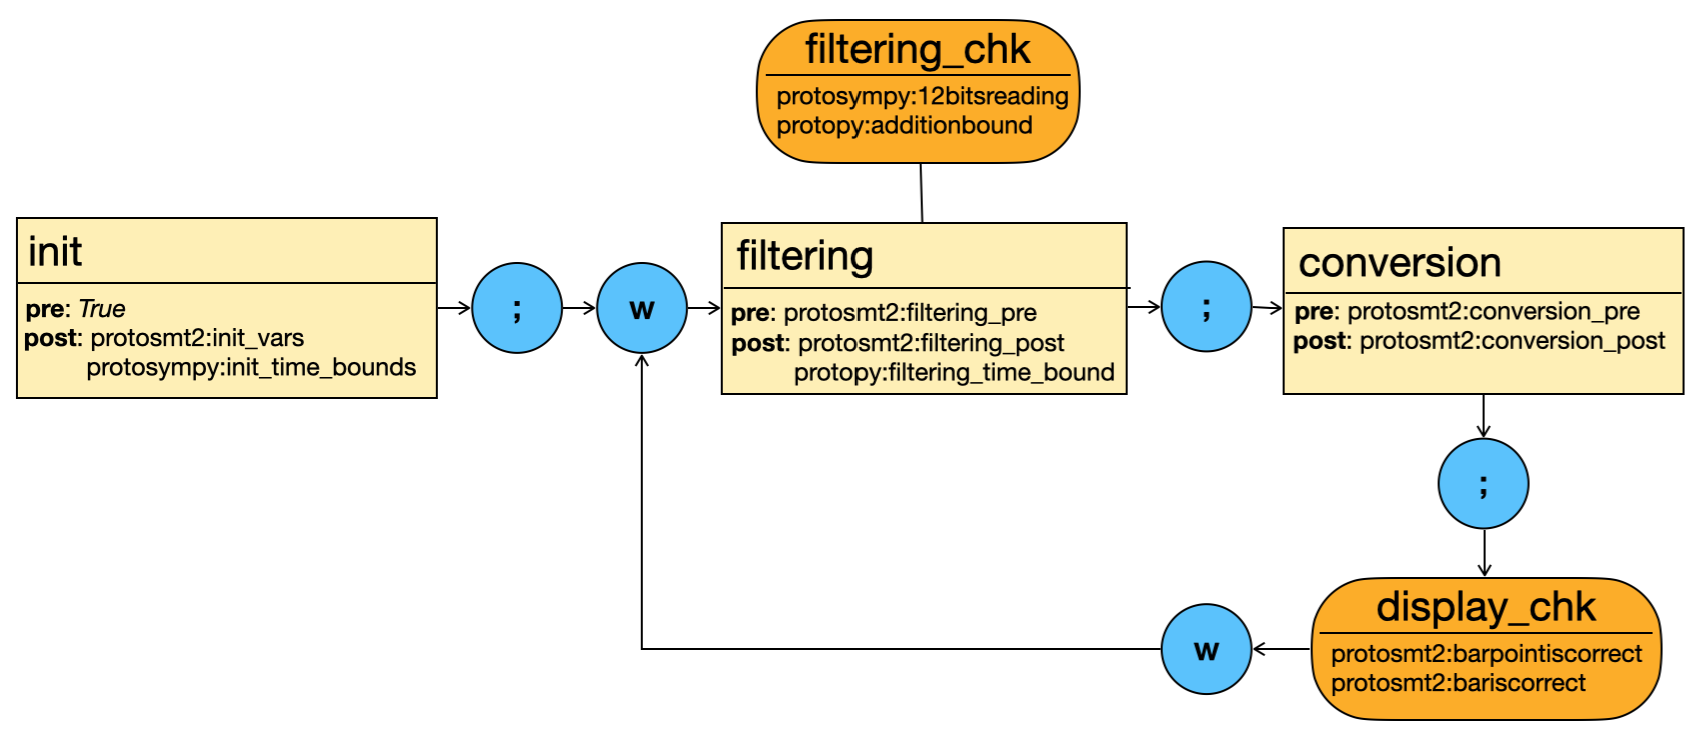
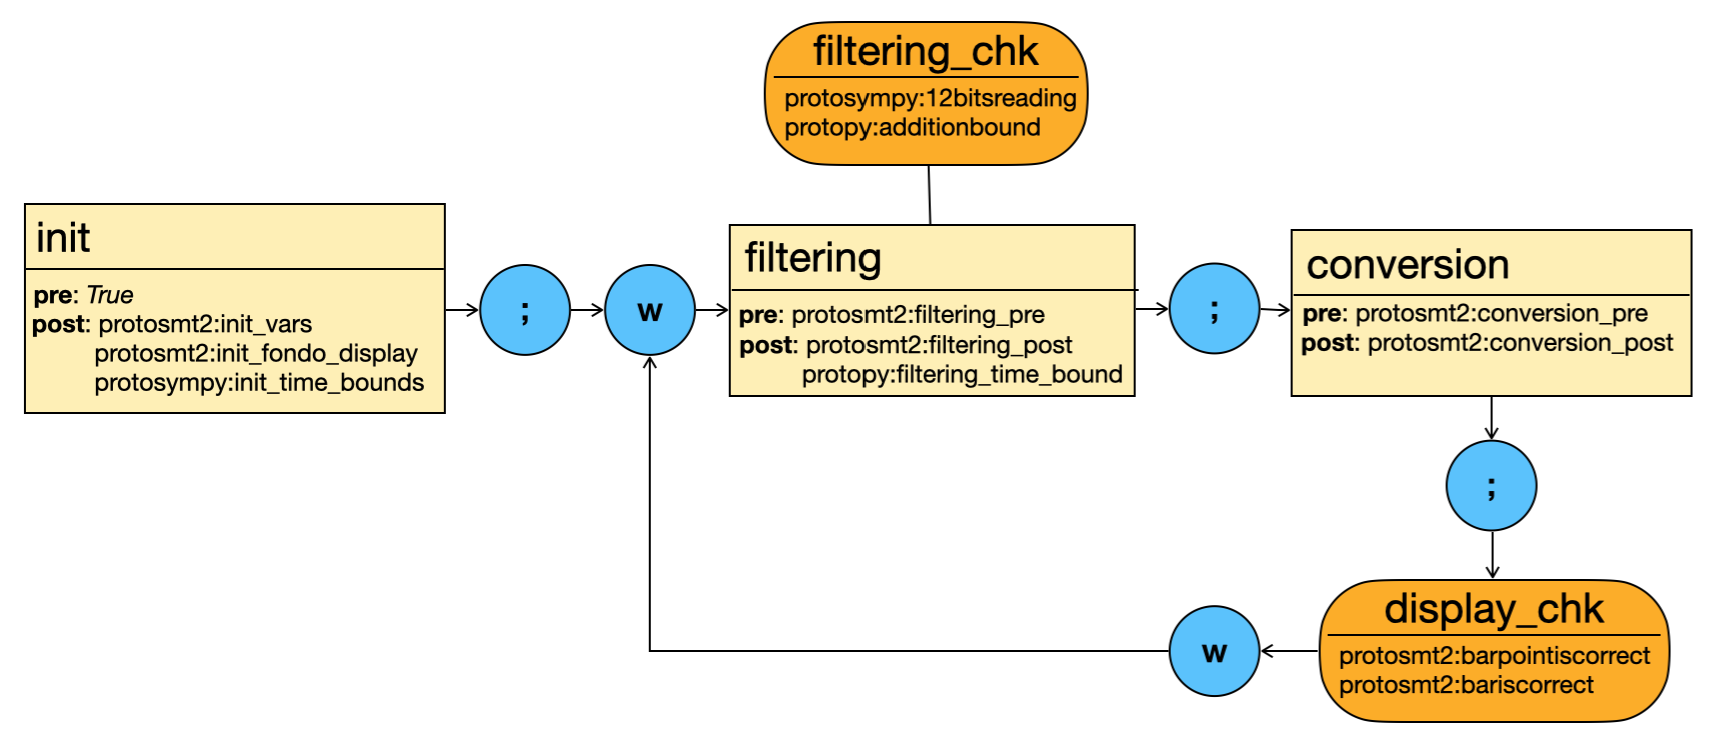
Partial commit of the README.md.

diff --git a/README.md b/README.md
@@ -29,14 +29,166 @@ In this section we formalise the intended behaviour of the software layer of the
   </figcaption>
 </figure>
 
-The intuition behind the SSP shown above is that after an initial task (*init*) that performs the initialization of the process, the artifact enters an infinite loop which performs a filtering task (*filtering*), which has an local checkpoint (*filtering_chk*), that computes a stable sample by taking the average of 16 individual samples, then the process goes through a conversion task (*conversion*) that produces the engineering value corresponding to that sample according to the interpretation of the analog signal being sampled, and, finally, there is a global checkpoint (*display_chk*) for checking the coherence of the data shown in the display with respect to the engineering value computed in the task *conversion*.
+The intuition behind the SSP shown above is that after an initial task (*init*) that performs the initialization of the process, the artifact enters an infinite loop which performs a filtering task (*filtering*), which has an local checkpoint (*filtering_chk*), that computes a stable sample by taking the average of 16 individual samples, then the process goes through a conversion task (*conversion*) that produces the engineering value corresponding to that sample according to the interpretation of the analog signal being sampled, and, finally, there is a global checkpoint (*display_chk*) for checking the coherence of the data shown in the LCD with respect to the engineering value computed in the task *conversion*.
 
+Below there is a list of the properties involved in the formal specification of [Figure 2](#ssp-software). We omit the information about the solver that will be used for checking each individual property but it can be seen as a label in fron of each of them in the structured sequential process of [Figure 2](#ssp-software). For a detailed presentation of the syntax the reader is pointed to Section [Specification language for describing the analysis framework](https://github.com/invap/rt-monitor/blob/main/README.md#specification-language "Specification language for describing the analysis framework").
 
-**ToDo: Complete description of the model by explaining all the properties involved.**
+- `init_vars`: asserts that the variable storing the previous sample is initialised with 0
+```
+(main_realvalue_old:State Int)
+(= main_realvalue_old 0)
+```
+- `init_fondo_display`: asserts that the invariant part of the image shown in the display has been correctly written. **Important note**: this is a dummy property because it is too cumbersome and does not add much to the purpose of this example; we will complete this in the future with a proper formula
+```
+None
+(= 1 1)
+```
+- `init_time_bound`: establishes a bound to the time required to perform the task *init*, between 10 and 1000 miliseconds
+```
+(init_clk:Clock Int)
+((10 <= init_clk) & (init_clk < 1000))
+```
+- `filtering_pre`: states the precondition of the task *filtering* asserting that the variable in which the process computes the addition of the 16 samples has been assigned 0
+```
+(main_addition:State Int)
+(= main_addition 0)
+```
+- `filtering_post`: states that the value reported as the result of computing the addition of 16 sampled datum and then deviding by 16 is indeed the average of those values
+```
+(main_addition:State Int),(main_realvalue:State Int),(main_value_0:State Int),(main_value_1:State Int),(main_value_2:State Int),(main_value_3:State Int),(main_value_4:State Int),(main_value_5:State Int),(main_value_6:State Int),(main_value_7:State Int),(main_value_8:State Int),(main_value_9:State Int),(main_value_10:State Int),(main_value_11:State Int),(main_value_12:State Int),(main_value_13:State Int),(main_value_14:State Int),(main_value_15:State Int)
+(and
+    (and
+        (and (<= 0 main_value_0) (< main_value_0 4096))
+        (and (<= 0 main_value_1) (< main_value_1 4096))
+        (and (<= 0 main_value_2) (< main_value_2 4096))
+        (and (<= 0 main_value_3) (< main_value_3 4096))
+        (and (<= 0 main_value_4) (< main_value_4 4096))
+        (and (<= 0 main_value_5) (< main_value_5 4096))
+        (and (<= 0 main_value_6) (< main_value_6 4096))
+        (and (<= 0 main_value_7) (< main_value_7 4096))
+        (and (<= 0 main_value_8) (< main_value_8 4096))
+        (and (<= 0 main_value_9) (< main_value_9 4096))
+        (and (<= 0 main_value_10) (< main_value_10 4096))
+        (and (<= 0 main_value_11) (< main_value_11 4096))
+        (and (<= 0 main_value_12) (< main_value_12 4096))
+        (and (<= 0 main_value_13) (< main_value_13 4096))
+        (and (<= 0 main_value_14) (< main_value_14 4096))
+        (and (<= 0 main_value_15) (< main_value_15 4096))
+    )
+    (= main_addition (+ main_value_0 main_value_1 main_value_2 main_value_3 main_value_4 main_value_5 main_value_6 main_value_7 main_value_8 main_value_9 main_value_10 main_value_11 main_value_12 main_value_13 main_value_14 main_value_15))
+    (= main_realvalue (div main_addition 16))
+)
+```
+- `filtering_time_bound`: establishes a bound to the time required to compute the the final sample as the average of 16 sampled datum from the ADC, between 100 and 500 miliseconds
+```
+(filtering_clk:Clock Int)
+((100 <= filtering_clk) and (filtering_clk < 500))
+```
+- `12bitsreading`: asserts that the value read from the ADC is bound to an unsigned integers in the range [0, 4096), which is the integers that can be represented with 12 bits 
+```
+(adc_read:Component Int)
+((0 <= adc_read) & (adc_read < 4096))
+```
+- `additionbound`: asserts that the partial addition performed until the moment in which this property is checked is necessarilly in hte range [0, 16*4096)
+```
+(main_addition:State Int)
+((0 <= main_addition) and (main_addition < 16 * 4096))
+```
+- `conversion_pre`: asserts that the sample computed by task *filtering* is an unsigned integer value in the range [0, 4095)
+```
+(main_realvalue:State Int)
+(and (<= 0 main_realvalue) (< main_realvalue 4096))
+```
+- `conversion_post`: asserts that the engineering value computed, as a floating point value, by task *conversion* correspond (upto a rounding error not representable in a single presition floating point) to the theoretical value resulting from the mathematical interpretation of the sample with respecto to the analog signal
+```
+(measurement_dato_ing:State Real),(main_realvalue:State Int),(measurement_dato_ing2:State Real)
+(exists (
+            (real_measurement_dato_ing Real)
+            (real_measurement_dato_ing2 Real)
+        )
+        (and
+            (let (
+                    (abs_diff
+                    (ite (< measurement_dato_ing real_measurement_dato_ing)
+                         (- real_measurement_dato_ing measurement_dato_ing)
+                         (- measurement_dato_ing real_measurement_dato_ing))
+                    )
+                 )
+                 (< abs_diff (* real_measurement_dato_ing 0.00001))
+            )
+            (let (
+                    (abs_diff
+                    (ite (< measurement_dato_ing2 real_measurement_dato_ing2)
+                         (- real_measurement_dato_ing2 measurement_dato_ing2)
+                         (- measurement_dato_ing2 real_measurement_dato_ing2))
+                    )
+                 )
+                 (< abs_diff (* real_measurement_dato_ing2 0.00001))
+            )
+            (= real_measurement_dato_ing (* 0.00524590164 main_realvalue))
+            (= real_measurement_dato_ing2 (* (^ 1 -13) (^ 2.71828 (* 1.1231 measurement_dato_ing))))
+        )
+)
 
-**ToDo: Complete explaining that the specification requires 2 components, the adc and the display.**
+```
+- `barpointiscorrect`: asserts that the topmost row of the bar that is colured in green (referred to as `bar_point') corresponds to the engineering value computed by task *conversion*, also establishing a hard upper and lower bound for that row
+```
+(bar_dato_ing:State Real),(bar_point:State Int)
+(exists ((real_value Real))
+        (let (
+                (abs_diff
+                (ite (< bar_dato_ing real_value)
+                    (- real_value bar_dato_ing)
+                    (- bar_dato_ing real_value))
+                )
+             )
+             (and
+                (< abs_diff (* real_value 0.00001))
+                (=
+                    bar_point
+                    (ite (<= (- (* 24 real_value) 96) 0)
+                        0
+                        (ite (<= 383 (- (* 24 real_value) 96))
+                            383
+                            (to_int (- (* 24 real_value) 96))
+                        )
+                    )
+                )
+             )
+        )
+)
+```
+- `bariscorrect`: establishes that the rows of the bar that fall below or equal to the `bar_point` are coloured in green, and those that fall above are black
+```
+(bar_point:State Int),(pixels:Component (Array Int (Array Int (Array Int Int))))
+(forall ((y Int) (x Int))
+        (=>
+            (and (>= y 155) (<= y 190))
+            (and
+                (=>
+                    (and (<= x 413) (> x  (- 413 bar_point)))
+                    (and
+                        (= (select (select (select pixels x) y) 0) 0)
+                        (= (select (select (select pixels x) y) 1) 255)
+                        (= (select (select (select pixels x) y) 2) 0)
+                    )
+                )
+                (=>
+                    (and (>= x 2) (<= x (- 413 bar_point)))
+                    (and
+                        (= (select (select (select pixels x) y) 0) 0)
+                        (= (select (select (select pixels x) y) 1) 0)
+                        (= (select (select (select pixels x) y) 2) 0)
+                    )
+                )
+            )
+        )
+)
+```
 
-The specification of the analysis framework is provided as a [TOML file](https://github.com/invap/rt-monitor-example-app/blob/main/framework-working-copy/spec_gr.toml). For a complete explanation of the syntax se Section [Specification language for describing the analysis framework](https://github.com/invap/rt-monitor/blob/main/README.md#specification-language "Specification language for describing the analysis framework").
+Another aspect that has to be declared in the specification of the analysis framework is the components that will play a role for analysing the system. In this specific case study we analyse the behaviour of the system by considering that the implementation of the ADC and the LCD are is not monitored internally but only through the invocation of the functions in their interface. This requires us to declare which are the Python clases that providing implementations of the digital twins for both the [ADC](https://github.com/invap/rt-monitor/blob/main/framework/components/rt_monitor_example_app/ex_adc.py) and the [LCD](https://github.com/invap/rt-monitor/blob/main/framework/components/rt_monitor_example_app/ex_display.py). 
+
+The complete specification of the analysis framework is provided as a [TOML file](https://github.com/invap/rt-monitor-example-app/blob/main/framework-working-copy/spec_gr.toml). For a complete explanation of the syntax se Section [Specification language for describing the analysis framework](https://github.com/invap/rt-monitor/blob/main/README.md#specification-language "Specification language for describing the analysis framework").
 
 
 ## ADC implementation and operation
@@ -76,7 +228,7 @@ containing only two functions:
 2. `sample`: produces a sample as a 16 bits integer by, either reading it from the file handler stored in the file pointer variable `file`, whenever the booblean variable `adc_info_present` is set to `true`, or by generating a pseudo-random unsigned 16 bits integer value which is bound to be in the range [0, 4096). If the generation of data samples is done by reading from `file` and `EOF` is reached, then the process aborts exiting with error code `-1`.
 
 
-## Display implementation and operation
+## LCD implementation and operation
 As we mentioned in Section [ADC implementation and operation](#adc-implementation-and-operation), a proper implementation of the system should implement the access the LCD by writing the appropriate data in memory locations where the communication bus is mapped. Once again, as we are only interested in the runtime verification of the software layer (shown in the upper-right quadrant delimited by red dotted lines of [Figure 1](#hardware-software-system)) and, as we are not concerned by the effect resulting from the invocation of the functions, we only provide a stub implementation of the interface "[ex_display.h](https://github.com/invap/rt-monitor-example-app/blob/main/data-display/ex_display.h)" shown below:
 ```
 /*
@@ -105,7 +257,7 @@ void display_Show_RGB(unsigned char dat1,unsigned char dat2,unsigned char dat3, 
 
 #endif
 ``` 
-The reader should note that the example proposes an interface providing high level capabilities for operating with the LCD. If we consider the hardware-software system proposed in [Figure 1](#hardware-software-system), in general, the low-level interface of the LCD hardware devices do not provide any capability for inspecting the state of the hardware component. This characteristic, shared with many other hardware components, is a key argument behind the addition of an event type for *component function calls* (see Section [Event language](https://github.com/invap/rt-monitor/blob/main/README.md#event-language "Event language") for further details), as it provides an effective connection between the operation of the component, part of the software under test and whose internal behaviour is not being verified, and a digital twin, used by the monitor for checking the properties of interest. In the case of the display of the present application, it is implemented in "[ex_display.py](https://github.com/invap/rt-monitor/blob/main/framework/components/rt_monitor_example_app/ex_display.py)"). For a more detailed explanation regarding the (black box) runtime verification of components see Section [Monitoring components](https://github.com/invap/rt-monitor/blob/main/README.md#monitoring-components).
+The reader should note that the example proposes an interface providing high level capabilities for operating with the LCD. If we consider the hardware-software system proposed in [Figure 1](#hardware-software-system), in general, the low-level interface of the LCD hardware devices do not provide any capability for inspecting the state of the hardware component. This characteristic, shared with many other hardware components, is a key argument behind the addition of an event type for *component function calls* (see Section [Event language](https://github.com/invap/rt-monitor/blob/main/README.md#event-language "Event language") for further details), as it provides an effective connection between the operation of the component, part of the software under test and whose internal behaviour is not being verified, and a digital twin, used by the monitor for checking the properties of interest. In the case of the LCD of the present application, it is implemented in "[ex_display.py](https://github.com/invap/rt-monitor/blob/main/framework/components/rt_monitor_example_app/ex_display.py)"). For a more detailed explanation regarding the (black box) runtime verification of components see Section [Monitoring components](https://github.com/invap/rt-monitor/blob/main/README.md#monitoring-components).
 
 
 ## Implementations of the application
@@ -117,7 +269,7 @@ The reader should note that the example proposes an interface providing high lev
   </figcaption>
 </figure>
 
-From a general point of view, the component `main` implements the infinite control loop (through function `main`) which, after taking some initial actions like initialising some variables, painting the background of the display (functions `background` of component `ex_display`), and initializing the ADC (function `adc_init` of component `ex_adc`), proceeds to subsequently compute the average of 16 samples, read from the ADC (through function `sample` of component `ex_adc`) and then write the engineering value corresponding to that computation in numbers in the lower section of the screen (through `measure` of component `ex_display`) and as a vertical bar (akin to a VU meter) in the central part of the LCD (through `bat` of component `ex_display`).
+From a general point of view, the component `main` implements the infinite control loop (through function `main`) which, after taking some initial actions like initialising some variables, painting the background of the LCD (functions `background` of component `ex_display`), and initializing the ADC (function `adc_init` of component `ex_adc`), proceeds to subsequently compute the average of 16 samples, read from the ADC (through function `sample` of component `ex_adc`) and then write the engineering value corresponding to that computation in numbers in the lower section of the screen (through `measure` of component `ex_display`) and as a vertical bar (akin to a VU meter) in the central part of the LCD (through `bat` of component `ex_display`).
 
 Below we provide an explanation of the different implementaions contained in this project. Notice that, as in the case of testing, the notion of *buggy* for the implementation experiencing bugs, and *patched* for the implementaion correcting them is relative to the formal properties we stated in the specification of the system we gave in Section [The software layer of the system as a structured sequential process](#the-software-layer-of-the-system-as-a-structured-sequential-process).
 
